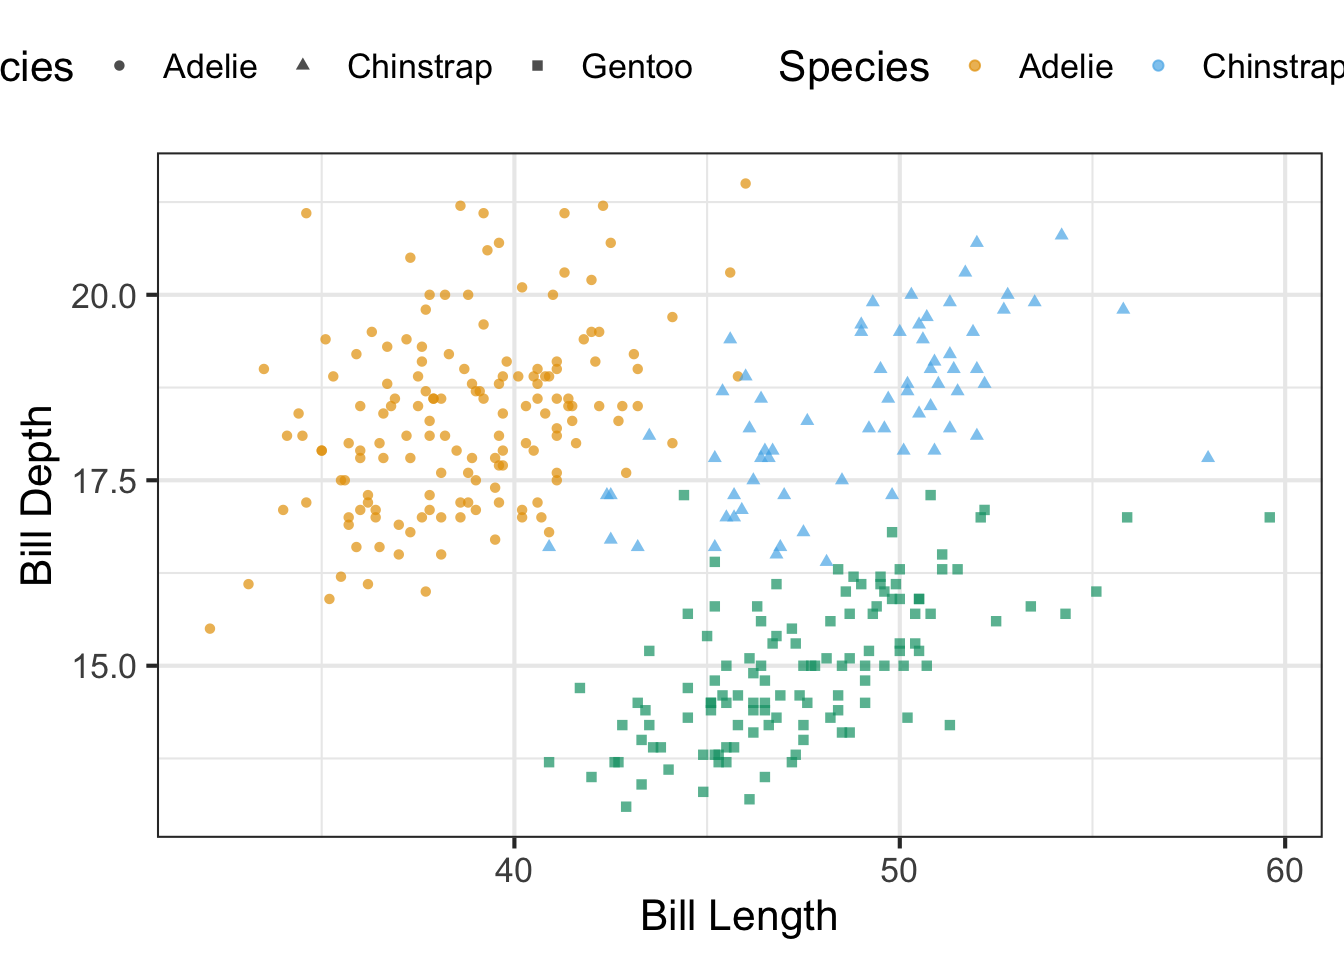
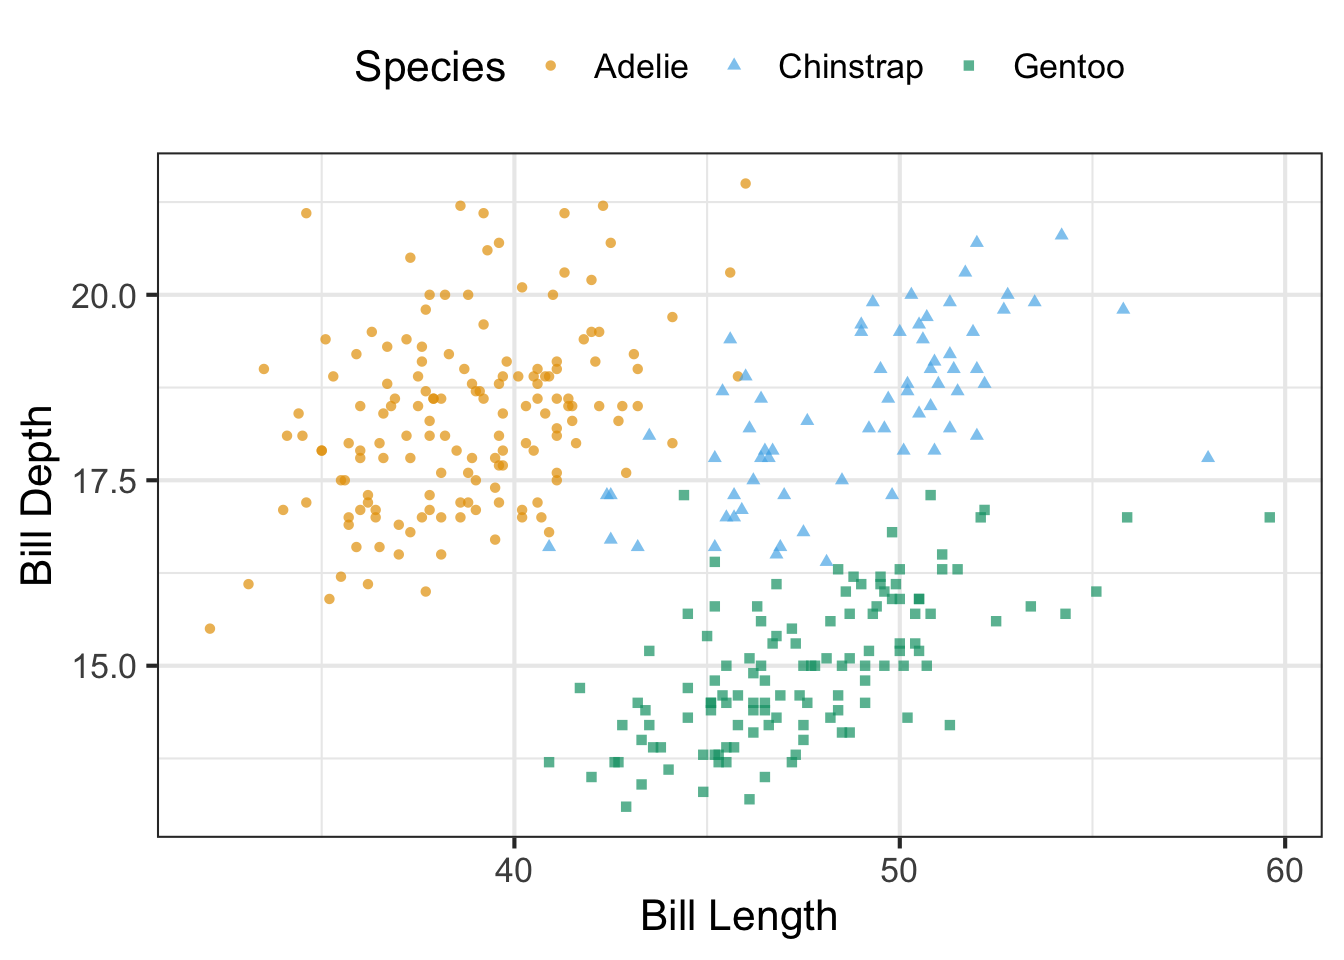
Session 4 update

diff --git a/_site/content/Session4.html b/_site/content/Session4.html
@@ -613,7 +613,7 @@ Attaching package: 'scales'</code></pre>
 <span id="cb40-6"><a href="#cb40-6" aria-hidden="true" tabindex="-1"></a>                    <span class="at">color=</span>species,<span class="at">shape=</span>species))<span class="sc">+</span></span>
 <span id="cb40-7"><a href="#cb40-7" aria-hidden="true" tabindex="-1"></a>                      <span class="fu">geom_point</span>(<span class="at">alpha=</span><span class="fl">0.7</span>)<span class="sc">+</span></span>
 <span id="cb40-8"><a href="#cb40-8" aria-hidden="true" tabindex="-1"></a>    <span class="fu">scale_color_manual</span>(<span class="at">values =</span> color_values)<span class="sc">+</span></span>
-<span id="cb40-9"><a href="#cb40-9" aria-hidden="true" tabindex="-1"></a>      <span class="fu">labs</span>(<span class="at">x=</span><span class="st">'Bill Length'</span>,<span class="at">y=</span><span class="st">'Bill Depth'</span>,<span class="at">color=</span><span class="st">'Species'</span>)<span class="sc">+</span></span>
+<span id="cb40-9"><a href="#cb40-9" aria-hidden="true" tabindex="-1"></a>      <span class="fu">labs</span>(<span class="at">x=</span><span class="st">'Bill Length'</span>,<span class="at">y=</span><span class="st">'Bill Depth'</span>,<span class="at">color=</span><span class="st">'Species'</span>,<span class="at">shape=</span><span class="st">'Species'</span>)<span class="sc">+</span></span>
 <span id="cb40-10"><a href="#cb40-10" aria-hidden="true" tabindex="-1"></a>      <span class="fu">theme_bw</span>(<span class="at">base_size =</span> <span class="dv">16</span>)<span class="sc">+</span><span class="fu">theme</span>(<span class="at">legend.position =</span> <span class="st">'top'</span>)</span></code><button title="Copy to Clipboard" class="code-copy-button"><i class="bi"></i></button></pre></div>
 </details>
 <div class="cell-output cell-output-stderr">
@@ -1191,7 +1191,7 @@ window.document.addEventListener("DOMContentLoaded", function (event) {
 <span id="cb42-267"><a href="#cb42-267" aria-hidden="true" tabindex="-1"></a>                    <span class="at">color=</span>species,<span class="at">shape=</span>species))<span class="sc">+</span></span>
 <span id="cb42-268"><a href="#cb42-268" aria-hidden="true" tabindex="-1"></a>                      <span class="fu">geom_point</span>(<span class="at">alpha=</span><span class="fl">0.7</span>)<span class="sc">+</span></span>
 <span id="cb42-269"><a href="#cb42-269" aria-hidden="true" tabindex="-1"></a>    <span class="fu">scale_color_manual</span>(<span class="at">values =</span> color_values)<span class="sc">+</span></span>
-<span id="cb42-270"><a href="#cb42-270" aria-hidden="true" tabindex="-1"></a>      <span class="fu">labs</span>(<span class="at">x=</span><span class="st">'Bill Length'</span>,<span class="at">y=</span><span class="st">'Bill Depth'</span>,<span class="at">color=</span><span class="st">'Species'</span>)<span class="sc">+</span></span>
+<span id="cb42-270"><a href="#cb42-270" aria-hidden="true" tabindex="-1"></a>      <span class="fu">labs</span>(<span class="at">x=</span><span class="st">'Bill Length'</span>,<span class="at">y=</span><span class="st">'Bill Depth'</span>,<span class="at">color=</span><span class="st">'Species'</span>,<span class="at">shape=</span><span class="st">'Species'</span>)<span class="sc">+</span></span>
 <span id="cb42-271"><a href="#cb42-271" aria-hidden="true" tabindex="-1"></a>      <span class="fu">theme_bw</span>(<span class="at">base_size =</span> <span class="dv">16</span>)<span class="sc">+</span><span class="fu">theme</span>(<span class="at">legend.position =</span> <span class="st">'top'</span>)</span>
 <span id="cb42-272"><a href="#cb42-272" aria-hidden="true" tabindex="-1"></a></span>
 <span id="cb42-273"><a href="#cb42-273" aria-hidden="true" tabindex="-1"></a><span class="in">```</span></span>

diff --git a/docs/content/Session4.html b/docs/content/Session4.html
@@ -613,7 +613,7 @@ Attaching package: 'scales'</code></pre>
 <span id="cb40-6"><a href="#cb40-6" aria-hidden="true" tabindex="-1"></a>                    <span class="at">color=</span>species,<span class="at">shape=</span>species))<span class="sc">+</span></span>
 <span id="cb40-7"><a href="#cb40-7" aria-hidden="true" tabindex="-1"></a>                      <span class="fu">geom_point</span>(<span class="at">alpha=</span><span class="fl">0.7</span>)<span class="sc">+</span></span>
 <span id="cb40-8"><a href="#cb40-8" aria-hidden="true" tabindex="-1"></a>    <span class="fu">scale_color_manual</span>(<span class="at">values =</span> color_values)<span class="sc">+</span></span>
-<span id="cb40-9"><a href="#cb40-9" aria-hidden="true" tabindex="-1"></a>      <span class="fu">labs</span>(<span class="at">x=</span><span class="st">'Bill Length'</span>,<span class="at">y=</span><span class="st">'Bill Depth'</span>,<span class="at">color=</span><span class="st">'Species'</span>)<span class="sc">+</span></span>
+<span id="cb40-9"><a href="#cb40-9" aria-hidden="true" tabindex="-1"></a>      <span class="fu">labs</span>(<span class="at">x=</span><span class="st">'Bill Length'</span>,<span class="at">y=</span><span class="st">'Bill Depth'</span>,<span class="at">color=</span><span class="st">'Species'</span>,<span class="at">shape=</span><span class="st">'Species'</span>)<span class="sc">+</span></span>
 <span id="cb40-10"><a href="#cb40-10" aria-hidden="true" tabindex="-1"></a>      <span class="fu">theme_bw</span>(<span class="at">base_size =</span> <span class="dv">16</span>)<span class="sc">+</span><span class="fu">theme</span>(<span class="at">legend.position =</span> <span class="st">'top'</span>)</span></code><button title="Copy to Clipboard" class="code-copy-button"><i class="bi"></i></button></pre></div>
 </details>
 <div class="cell-output cell-output-stderr">
@@ -1191,7 +1191,7 @@ window.document.addEventListener("DOMContentLoaded", function (event) {
 <span id="cb42-267"><a href="#cb42-267" aria-hidden="true" tabindex="-1"></a>                    <span class="at">color=</span>species,<span class="at">shape=</span>species))<span class="sc">+</span></span>
 <span id="cb42-268"><a href="#cb42-268" aria-hidden="true" tabindex="-1"></a>                      <span class="fu">geom_point</span>(<span class="at">alpha=</span><span class="fl">0.7</span>)<span class="sc">+</span></span>
 <span id="cb42-269"><a href="#cb42-269" aria-hidden="true" tabindex="-1"></a>    <span class="fu">scale_color_manual</span>(<span class="at">values =</span> color_values)<span class="sc">+</span></span>
-<span id="cb42-270"><a href="#cb42-270" aria-hidden="true" tabindex="-1"></a>      <span class="fu">labs</span>(<span class="at">x=</span><span class="st">'Bill Length'</span>,<span class="at">y=</span><span class="st">'Bill Depth'</span>,<span class="at">color=</span><span class="st">'Species'</span>)<span class="sc">+</span></span>
+<span id="cb42-270"><a href="#cb42-270" aria-hidden="true" tabindex="-1"></a>      <span class="fu">labs</span>(<span class="at">x=</span><span class="st">'Bill Length'</span>,<span class="at">y=</span><span class="st">'Bill Depth'</span>,<span class="at">color=</span><span class="st">'Species'</span>,<span class="at">shape=</span><span class="st">'Species'</span>)<span class="sc">+</span></span>
 <span id="cb42-271"><a href="#cb42-271" aria-hidden="true" tabindex="-1"></a>      <span class="fu">theme_bw</span>(<span class="at">base_size =</span> <span class="dv">16</span>)<span class="sc">+</span><span class="fu">theme</span>(<span class="at">legend.position =</span> <span class="st">'top'</span>)</span>
 <span id="cb42-272"><a href="#cb42-272" aria-hidden="true" tabindex="-1"></a></span>
 <span id="cb42-273"><a href="#cb42-273" aria-hidden="true" tabindex="-1"></a><span class="in">```</span></span>
